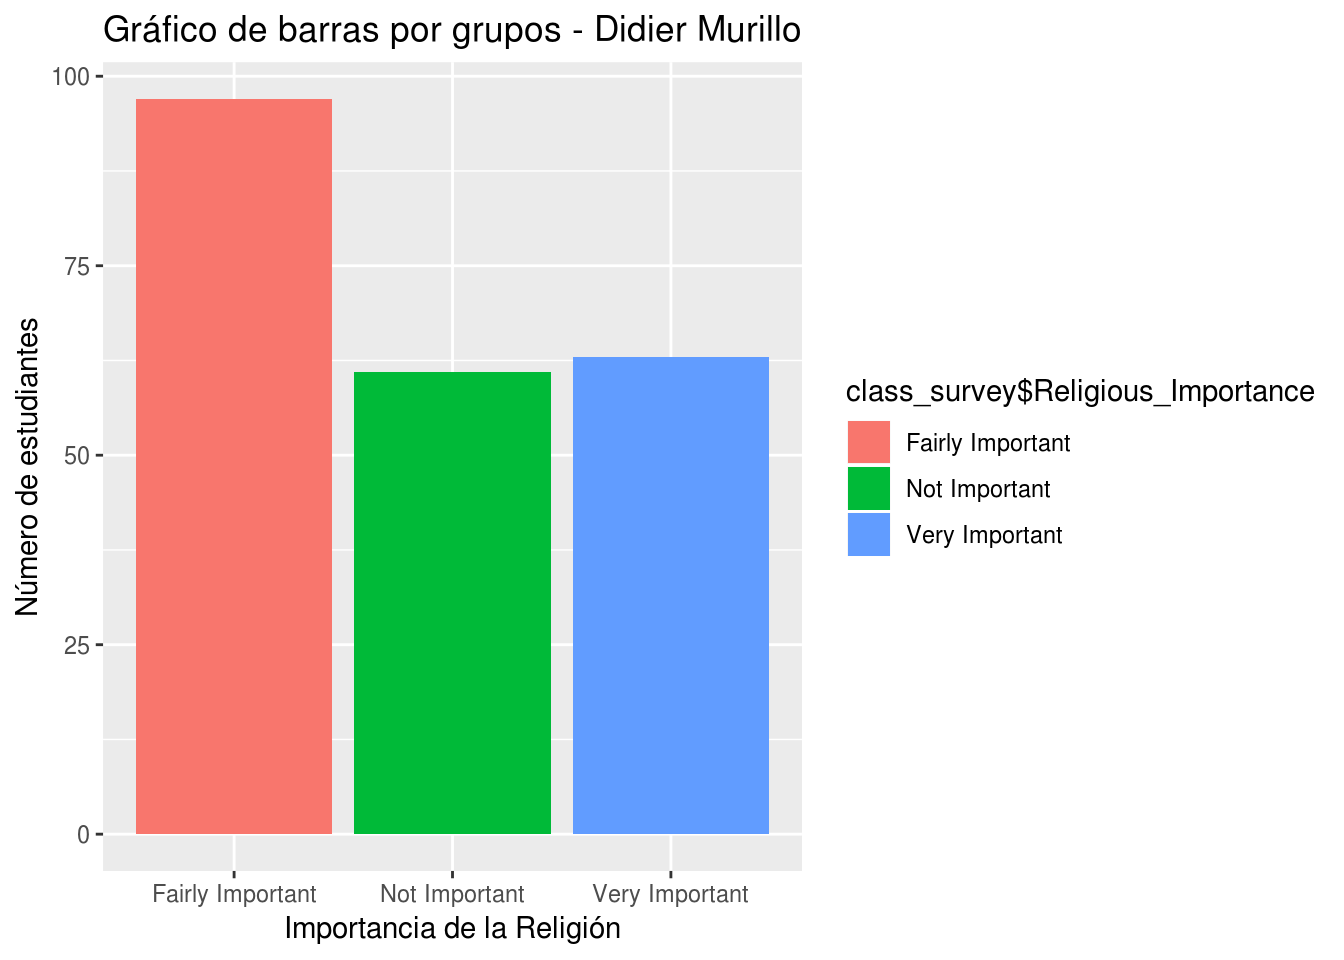
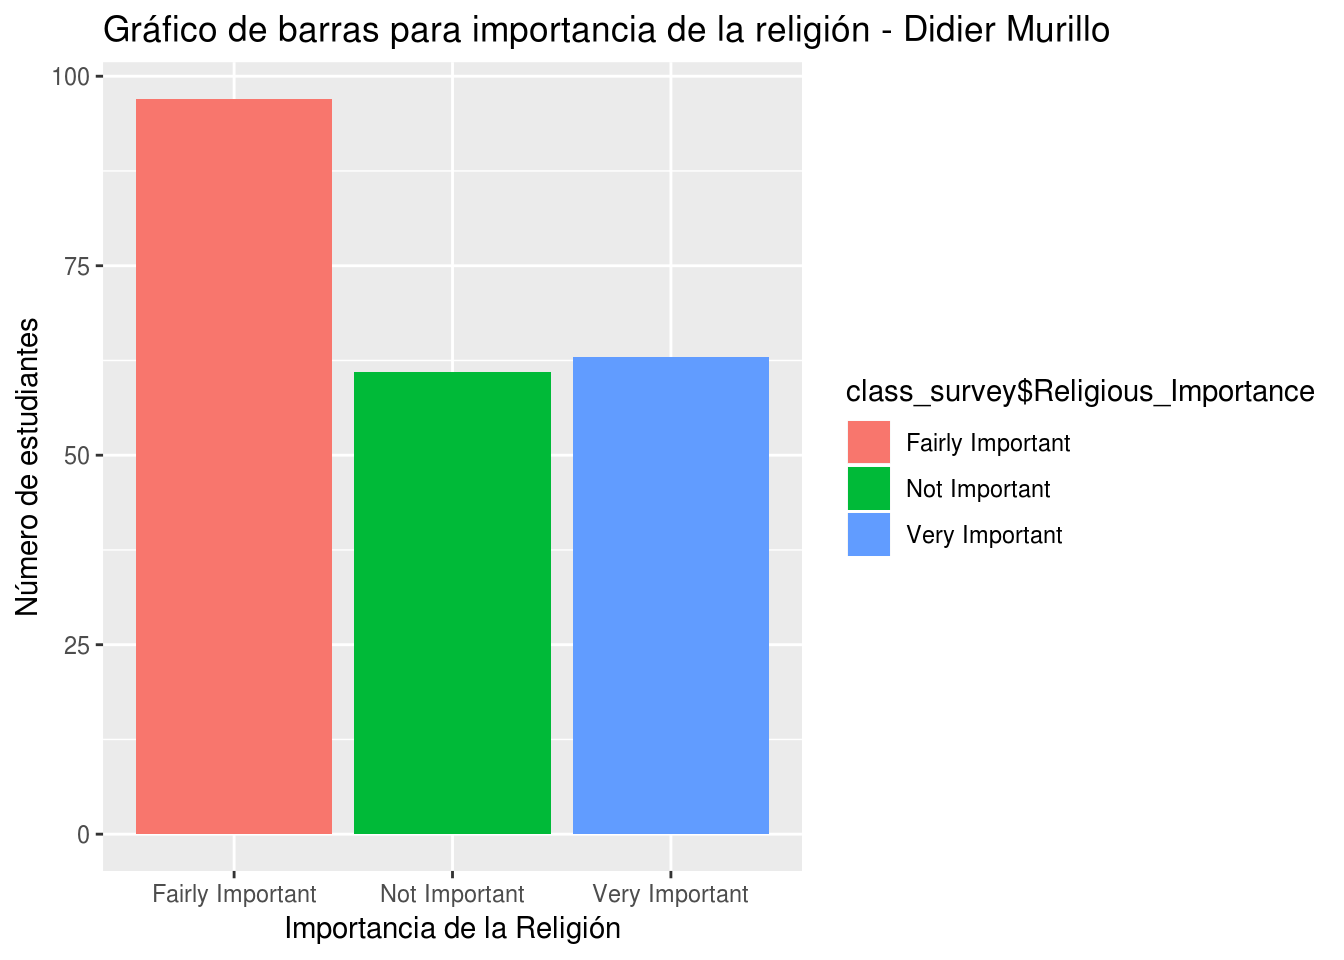
Go!

Changed region(s): [[0.3125, 0.0, 0.8125, 0.0625]]

diff --git a/st3.html b/st3.html
@@ -272,8 +272,11 @@ ggplot(insectos_muertos , aes(x = insectos_muertos$insectos_m)) +
   ggtitle(&quot;Dotplot para el número de insectos muertos - Didier Murillo&quot;)  + xlab(&quot;Número de insectos&quot;) + ylab(&quot;frecuencia&quot;)</code></pre>
 <pre><code>`stat_bindot()` using `bins = 30`. Pick better value with `binwidth`.</code></pre>
 <p><img src="st3_files/figure-html/unnamed-chunk-3-1.png" width="672" /></p>
-<div id="para-este-ejercicio-y-el-3-debe-usar-los-datos-class_survey-que-le-fueron-enviados-a-su-correo-electronico.-una-forma-de-leer-los-datos-es-la-siguiente.-usted-solo-debe-cambiar-la-ubicacion-del-archivo." class="section level4">
-<h4>2. Para este ejercicio y el 3 debe usar los datos <code>class_survey</code> que le fueron enviados a su correo electrónico. Una forma de leer los datos es la siguiente. Usted solo debe cambiar la ubicación del archivo.</h4>
+</div>
+<div id="ejercicio-2" class="section level3">
+<h3>Ejercicio 2</h3>
+<div id="una-forma-de-leer-los-datos-es-la-siguiente.-usted-solo-debe-cambiar-la-ubicacion-del-archivo." class="section level4">
+<h4>Una forma de leer los datos es la siguiente. Usted solo debe cambiar la ubicación del archivo.</h4>
 <pre class="r"><code>## Leer los datos  
 class_survey &lt;- read.table(&quot;/datos/DirectorioR/class_survey.txt&quot;,header=TRUE,sep = &quot;\t&quot;)
 head(class_survey)</code></pre>
@@ -315,22 +318,22 @@ print(tabla_frecuencia(class_survey$SATM))</code></pre>
 <li><p>Solo nueve estudiantes tienen puntajes de SATM mayores a 744</p></li>
 <li><p>3/ % de los estudiantes tiene puntajes de SATM superiores a 633</p></li>
 </ul>
-<ol start="3" style="list-style-type: lower-alpha">
-<li><p>Use los puntos medios para dibujar un histograma de forma manual (Usando sus manos, papel y lápiz). Comente si es simétrico o sesgado a derecha o izquierda.</p></li>
-<li><p>Use <code>R</code> y/o <code>RStudio</code> y la función <code>hist()</code> o el paquete <code>ggplot2</code> para crear el histograma de la variable que fue seleccionada. La gráfica debe tener título y nombre en los ejes x-y.</p></li>
+<ol start="4" style="list-style-type: lower-alpha">
+<li>Use <code>R</code> y/o <code>RStudio</code> y la función <code>hist()</code> o el paquete <code>ggplot2</code> para crear el histograma de la variable que fue seleccionada. La gráfica debe tener título y nombre en los ejes x-y.</li>
 </ol>
 <pre class="r"><code>hist(class_survey$SATM,main = &quot;Histograma para SATM - Didier Murillo&quot;,col = &quot;seagreen&quot;,xlab = &quot;SATM&quot;,ylab = &quot;Número de estudiantes&quot;)</code></pre>
 <p><img src="st3_files/figure-html/unnamed-chunk-6-1.png" width="672" /></p>
 <p>Claramente se ve que el histograma para SATM es sesgado a la izquierda. Esto quiere decir que la mayoría de estudiantes tienen puntajes altos para la prueba SATM.</p>
 </div>
-<div id="use-r-yo-rstudio-para-contestar-las-siguientes-preguntas" class="section level4">
-<h4>3. Use <code>R</code> y/o <code>RStudio</code> para contestar las siguientes preguntas</h4>
+</div>
+<div id="problema-3." class="section level3">
+<h3>Problema 3.</h3>
 <ol style="list-style-type: lower-alpha">
 <li>Seleccione una variable cualitativa (Categórica) y haga un gráfico de barras. La gráfica debe tener título y nombre en los ejes x-y. Interprete el gráfico.</li>
 </ol>
 <pre class="r"><code>library(ggplot2)
 ggplot(class_survey, aes(fill=class_survey$Religious_Importance,  x=class_survey$Religious_Importance)) + 
-    geom_bar(position=&quot;dodge&quot;) + ggtitle(&quot;Gráfico de barras por grupos - Didier Murillo&quot;) +
+    geom_bar(position=&quot;dodge&quot;) + ggtitle(&quot;Gráfico de barras para importancia de la religión - Didier Murillo&quot;) +
   xlab(&quot;Importancia de la Religión&quot;) + ylab(&quot;Número de estudiantes&quot;)</code></pre>
 <p><img src="st3_files/figure-html/unnamed-chunk-7-1.png" width="672" /></p>
 <p>Podemos observar que a la mayoría de estudiantes en la muestra les parece muy importante la religión.</p>
@@ -358,12 +361,13 @@ pie(num_Importance,labels = Importance, col=rainbow(length(Importance)),
     main=&quot;Gráfico de sectores para importancia de la religión - Didier Murillo&quot;)</code></pre>
 <p><img src="st3_files/figure-html/unnamed-chunk-9-1.png" width="672" /></p>
 </div>
+<div id="problema-4." class="section level3">
+<h3>Problema 4.</h3>
 <div id="los-siguientes-datos-corresponden-al-numero-de-dias-que-ha-llovido-en-mayaguez-durante-los-ultimos-15-anos." class="section level4">
-<h4>4. Los siguientes datos corresponden al número de días que ha llovido en Mayagüez durante los últimos 15 años.</h4>
+<h4>Los siguientes datos corresponden al número de días que ha llovido en Mayagüez durante los últimos 15 años.</h4>
 <p>311 293 285 306 311 309 313 309 320 311 319 307 320 273 297</p>
-<ol style="list-style-type: lower-alpha">
-<li><p>Hacer un gráfico de tallos y hojas de forma manual. Comentar si el gráfico es simétrico o sesgado a izquierda o derecha y si hay presencia de datos atípicos.</p></li>
-<li><p>Use <code>R</code> y/o <code>RStudio</code> y la función <code>stem()</code> para crear el gráfico de tallos y hojas.</p></li>
+<ol start="2" style="list-style-type: lower-alpha">
+<li>Use <code>R</code> y/o <code>RStudio</code> y la función <code>stem()</code> para crear el gráfico de tallos y hojas.</li>
 </ol>
 <pre class="r"><code> s &lt;- c(311, 293, 285, 306, 311, 309, 313, 309, 320, 311, 319, 307, 320, 273, 297)
  stem(s,1)</code></pre>

diff --git a/Medidas.html b/Medidas.html
@@ -296,9 +296,17 @@ median(carros_outlier)</code></pre>
 <li><strong>La moda</strong> es el valor (o valores) que se repite con mayor frecuencia en la muestra. La Moda puede aplicarse tanto a datos cuantitativos como cualitativos.</li>
 </ul>
 <p>En RStudio la moda se puede calcular ejecutando la siguiente función (Se debe copiar y pegar en R, luego ejecutarla.)</p>
-<pre class="r"><code>getmode &lt;- function(v) {
-   uniqv &lt;- unique(v)
-   uniqv[which.max(tabulate(match(v, uniqv)))]
+<pre class="r"><code>getmode &lt;- function (x, na.rm = FALSE) 
+{
+  if (!is.atomic(x) | is.matrix(x)) 
+    stop(&quot;Mode supports only atomic vectors. Use sapply(*, Mode) instead.&quot;)
+  if (na.rm) 
+    x &lt;- na.omit(x)
+  tab &lt;- table(x)
+  res &lt;- names(which(tab == max(tab)))
+  if (!inherits(x, &quot;factor&quot;)) 
+    class(res) &lt;- class(x)
+  return(as.vector(res))
 }</code></pre>
 <p><strong>Ejemplo</strong>. Los siguientes datos representan el número de veces que 11 personas van al cine mensualmente: 3, 4, 4, 5, 0, 2, 1, 5, 4, 5 y 4.</p>
 <p>Hallar la moda.</p>
